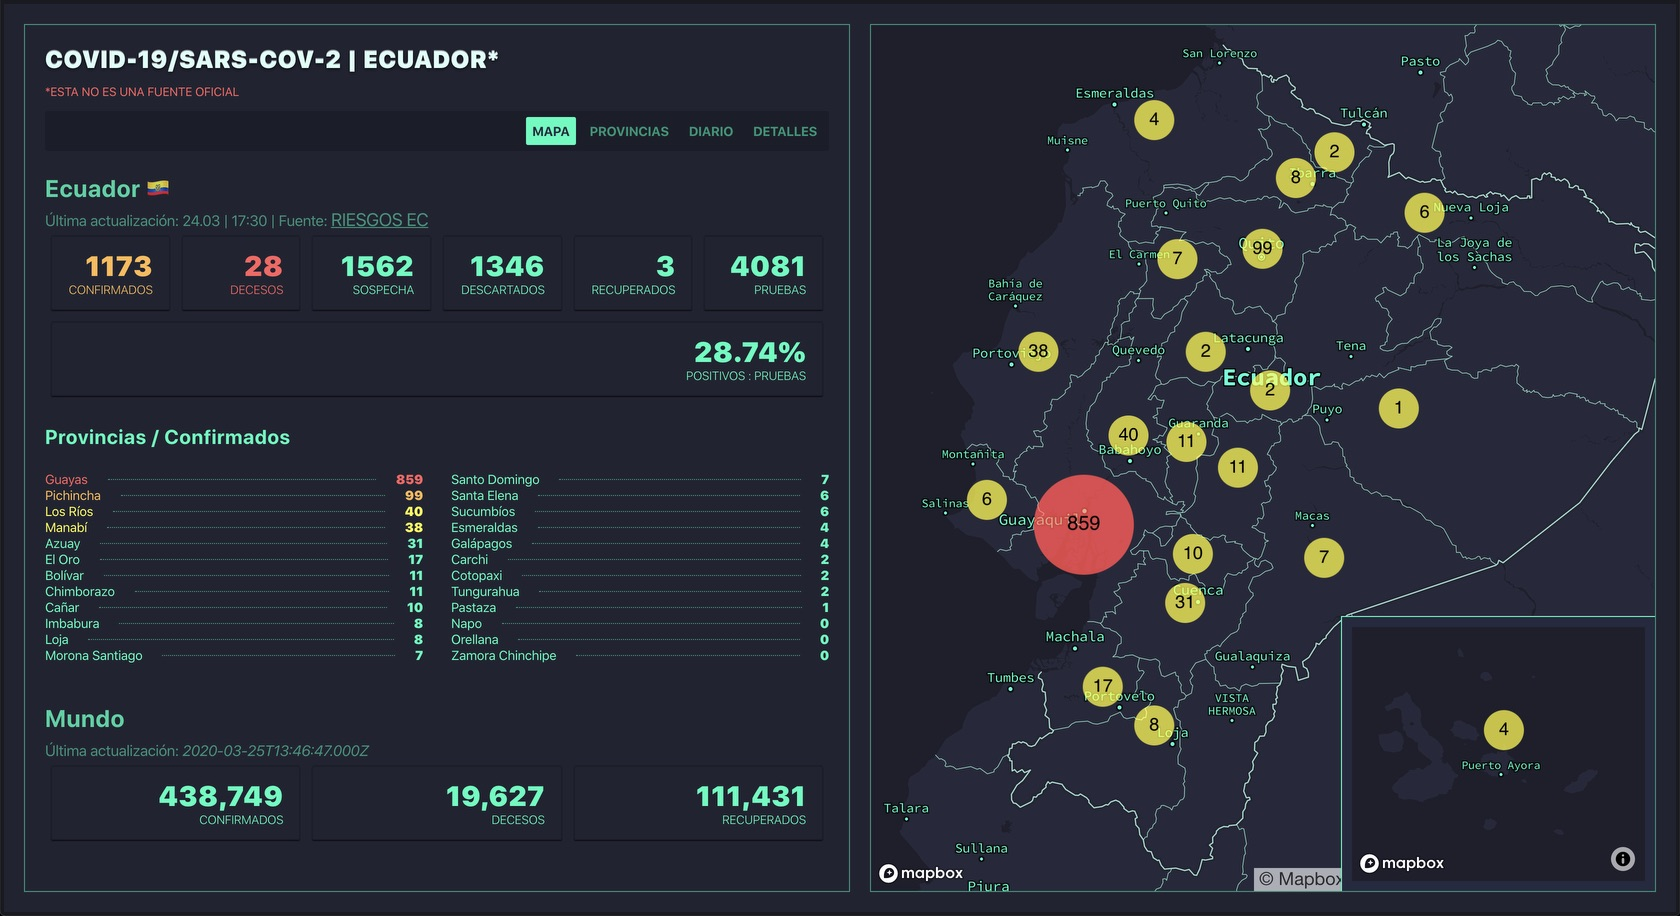
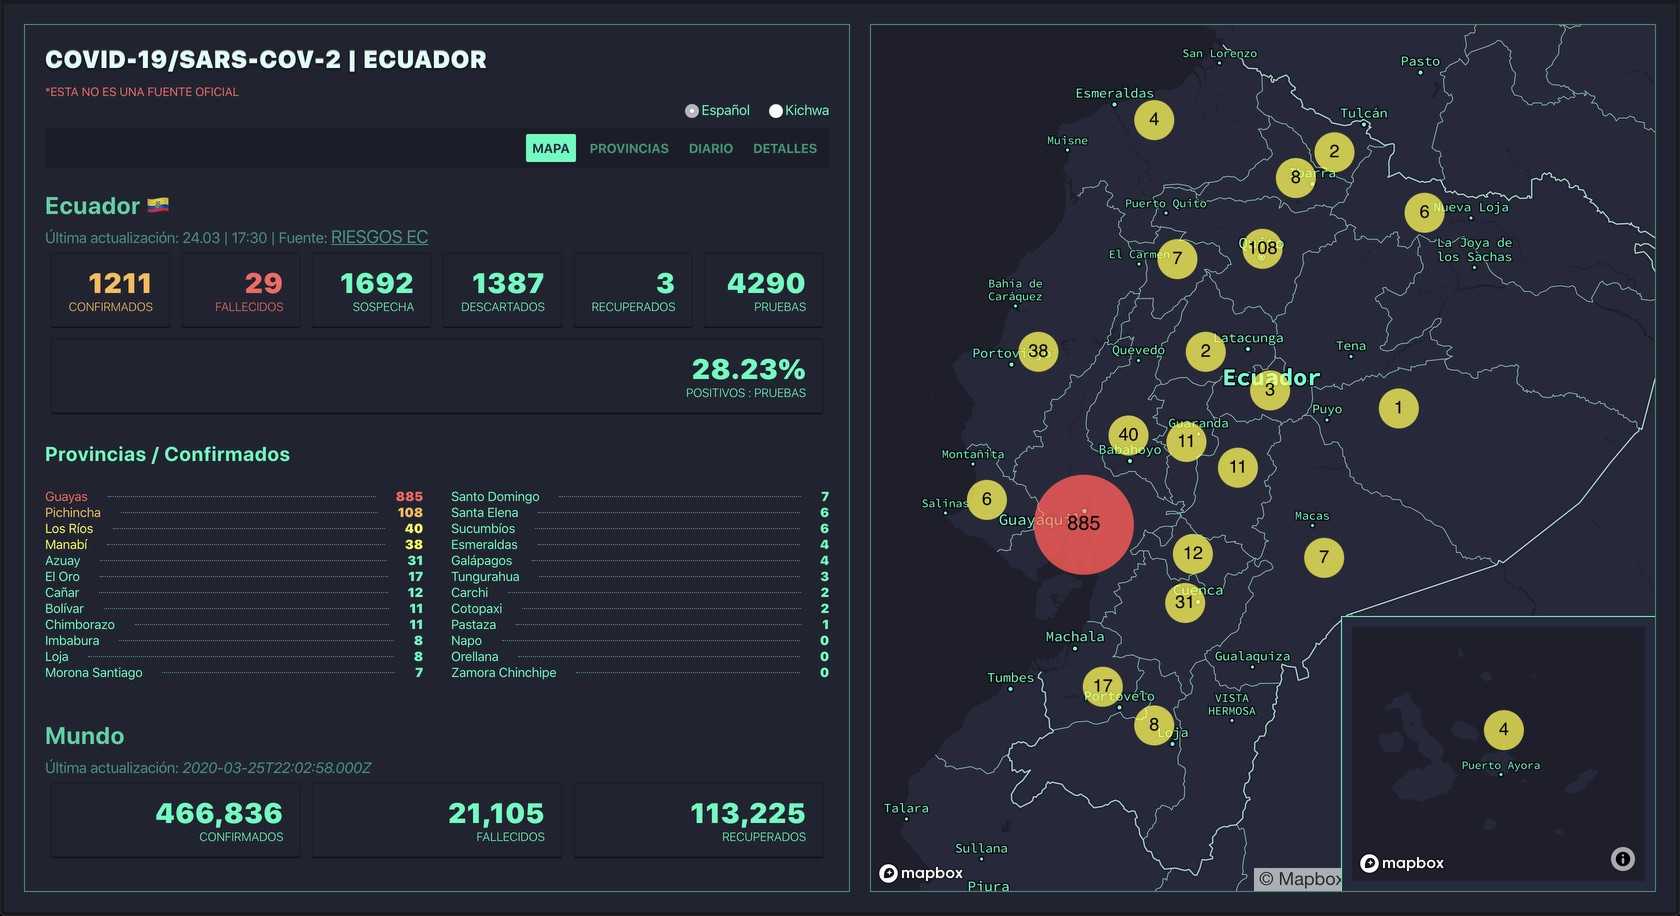
Update new data

diff --git a/src/db/EcuadorData.js b/src/db/EcuadorData.js
@@ -29,7 +29,7 @@ const data = [
     id: 2,
     name: 'Cañar',
     capital: 'Azogues',
-    confirmed: 10,
+    confirmed: 12,
     deaths: 0,
     compromised: 0,
     status: null,
@@ -120,7 +120,7 @@ const data = [
     id: 9,
     name: 'Guayas',
     capital: 'Guayaquil',
-    confirmed: 859,
+    confirmed: 885,
     deaths: 0,
     compromised: 0,
     status: 'alert',
@@ -237,7 +237,7 @@ const data = [
     id: 18,
     name: 'Pichincha',
     capital: 'Quito',
-    confirmed: 99,
+    confirmed: 108,
     deaths: 0,
     compromised: 0,
     status: null,
@@ -289,7 +289,7 @@ const data = [
     id: 22,
     name: 'Tungurahua',
     capital: 'Ambato',
-    confirmed: 2,
+    confirmed: 3,
     deaths: 0,
     compromised: 0,
     status: null,

diff --git a/src/components/Charts.js b/src/components/Charts.js
@@ -163,8 +163,6 @@ export function ConfirmedByProvinceChart() {
   );
 }
 
-
-
 export function DetailsChart() {
   const { t } = useTranslation();
   const data = {
@@ -177,7 +175,7 @@ export function DetailsChart() {
     ],
     datasets: [
       {
-        data: [3, 990, 87, 65, 28],
+        data: [3, 1028, 87, 64, 29],
         borderColor: 'hsla(164, 23%, 3%, 0.6)',
         backgroundColor: [
           'hsla(163, 72%, 100%, 0.9)',

diff --git a/src/components/Ecuador.js b/src/components/Ecuador.js
@@ -16,12 +16,12 @@ const Ecuador = ({ t }) => {
   });
 
   const dataTotals = {
-    confirmed: 1173,
-    deaths: 28,
-    suspicious: 1562,
-    negatives: 1346,
+    confirmed: 1211,
+    deaths: 29,
+    suspicious: 1692,
+    negatives: 1387,
     recoveries: 3,
-    tests: 4081
+    tests: 4290
   };
 
   var result = (dataTotals.confirmed / dataTotals.tests) * 100;
